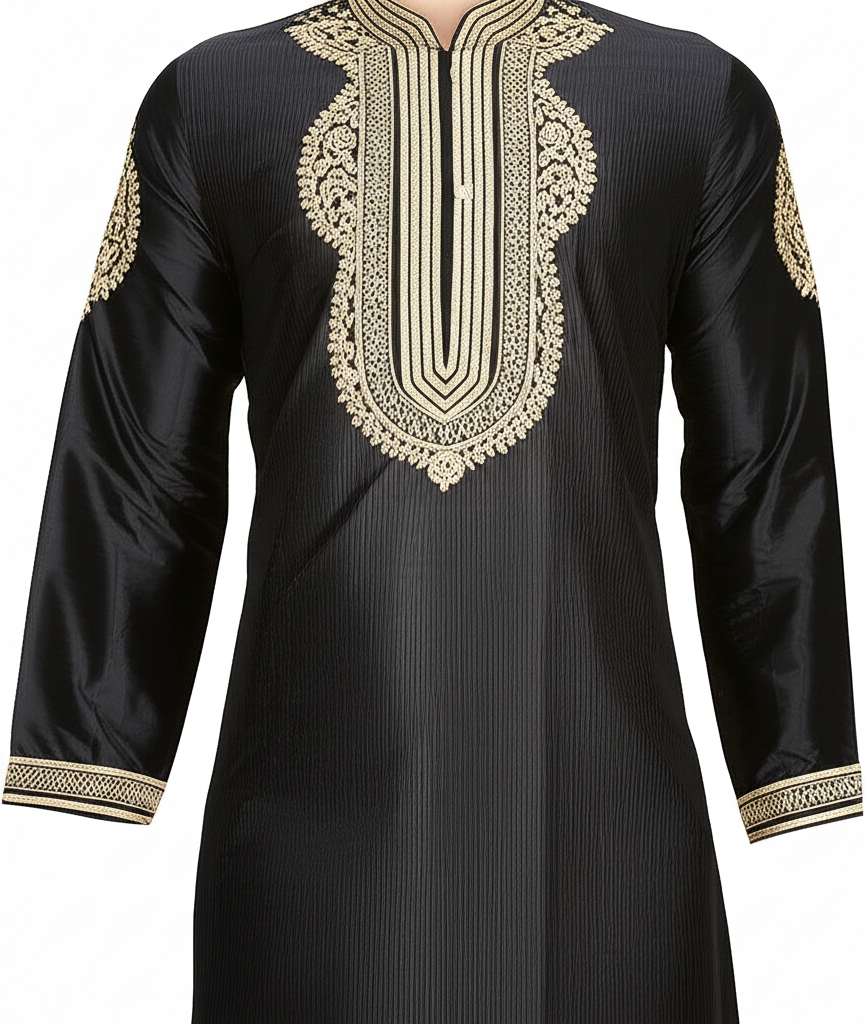
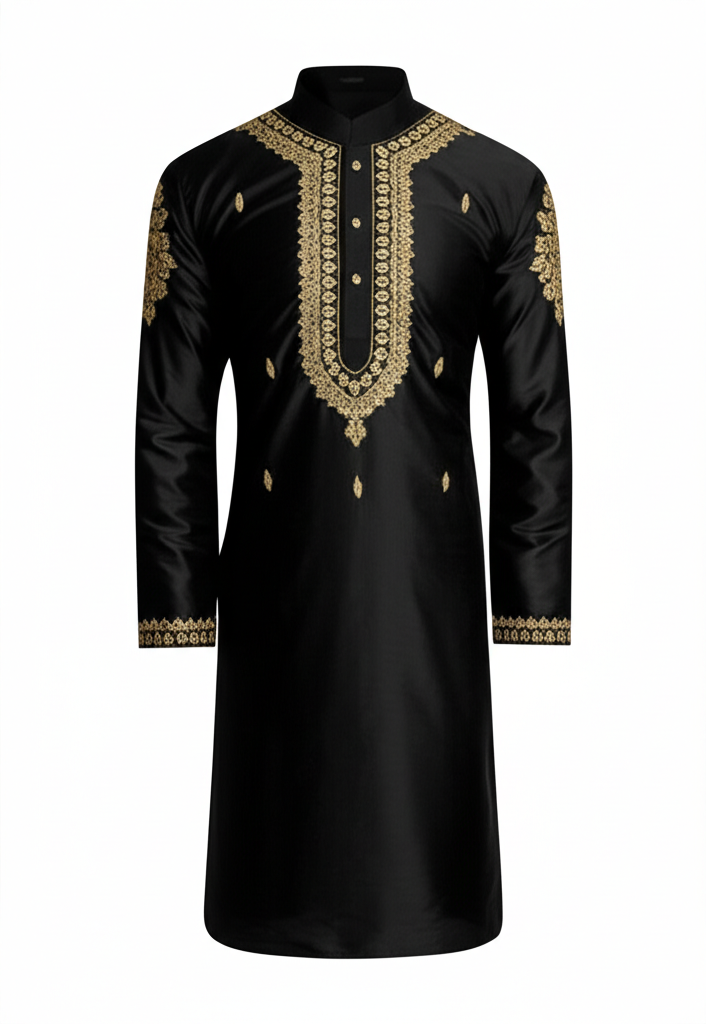
Added context for Image generation

diff --git a/gemini_image_gen.py b/gemini_image_gen.py
@@ -3,23 +3,42 @@ from google.genai import types
 from PIL import Image
 from io import BytesIO
 import base64
+import os
 
-client = genai.Client(api_key="AIzaSyBhET7ncRV5L0KNIcmTqsjuCD0n3VBK4-c")
+GEMINI_API_KEY = os.getenv("GEMINI_API_KEY")
+client = genai.Client(api_key=GEMINI_API_KEY)
 
-contents = ('black kurta with gold embroidery')
+common_image_context = (
+    "A photorealistic, high-resolution image of a product, "
+    "professional studio lighting, on a clean white background, "
+    "front view."
+)
 
+# --- User's specific product description
+user_product_description = 'black kurta with gold embroidery'
+
+# --- Combine common context with user's description ---
+full_prompt = f"{common_image_context} {user_product_description}"
+
+print(f"Generating image with prompt: '{full_prompt}'")
+
+
+# --- Gemini API Call ---
 response = client.models.generate_content(
     model="gemini-2.0-flash-preview-image-generation",
-    contents=contents,
+    contents=full_prompt,
     config=types.GenerateContentConfig(
       response_modalities=['TEXT', 'IMAGE']
     )
 )
 
+image_path = 'gemini-native-image.png'
 for part in response.candidates[0].content.parts:
   if part.text is not None:
     print(part.text)
   elif part.inline_data is not None:
     image = Image.open(BytesIO((part.inline_data.data)))
-    image.save('gemini-native-image.png')
+    image.save(image_path)
     image.show()
+
+print(f"Image saved to {image_path}")
